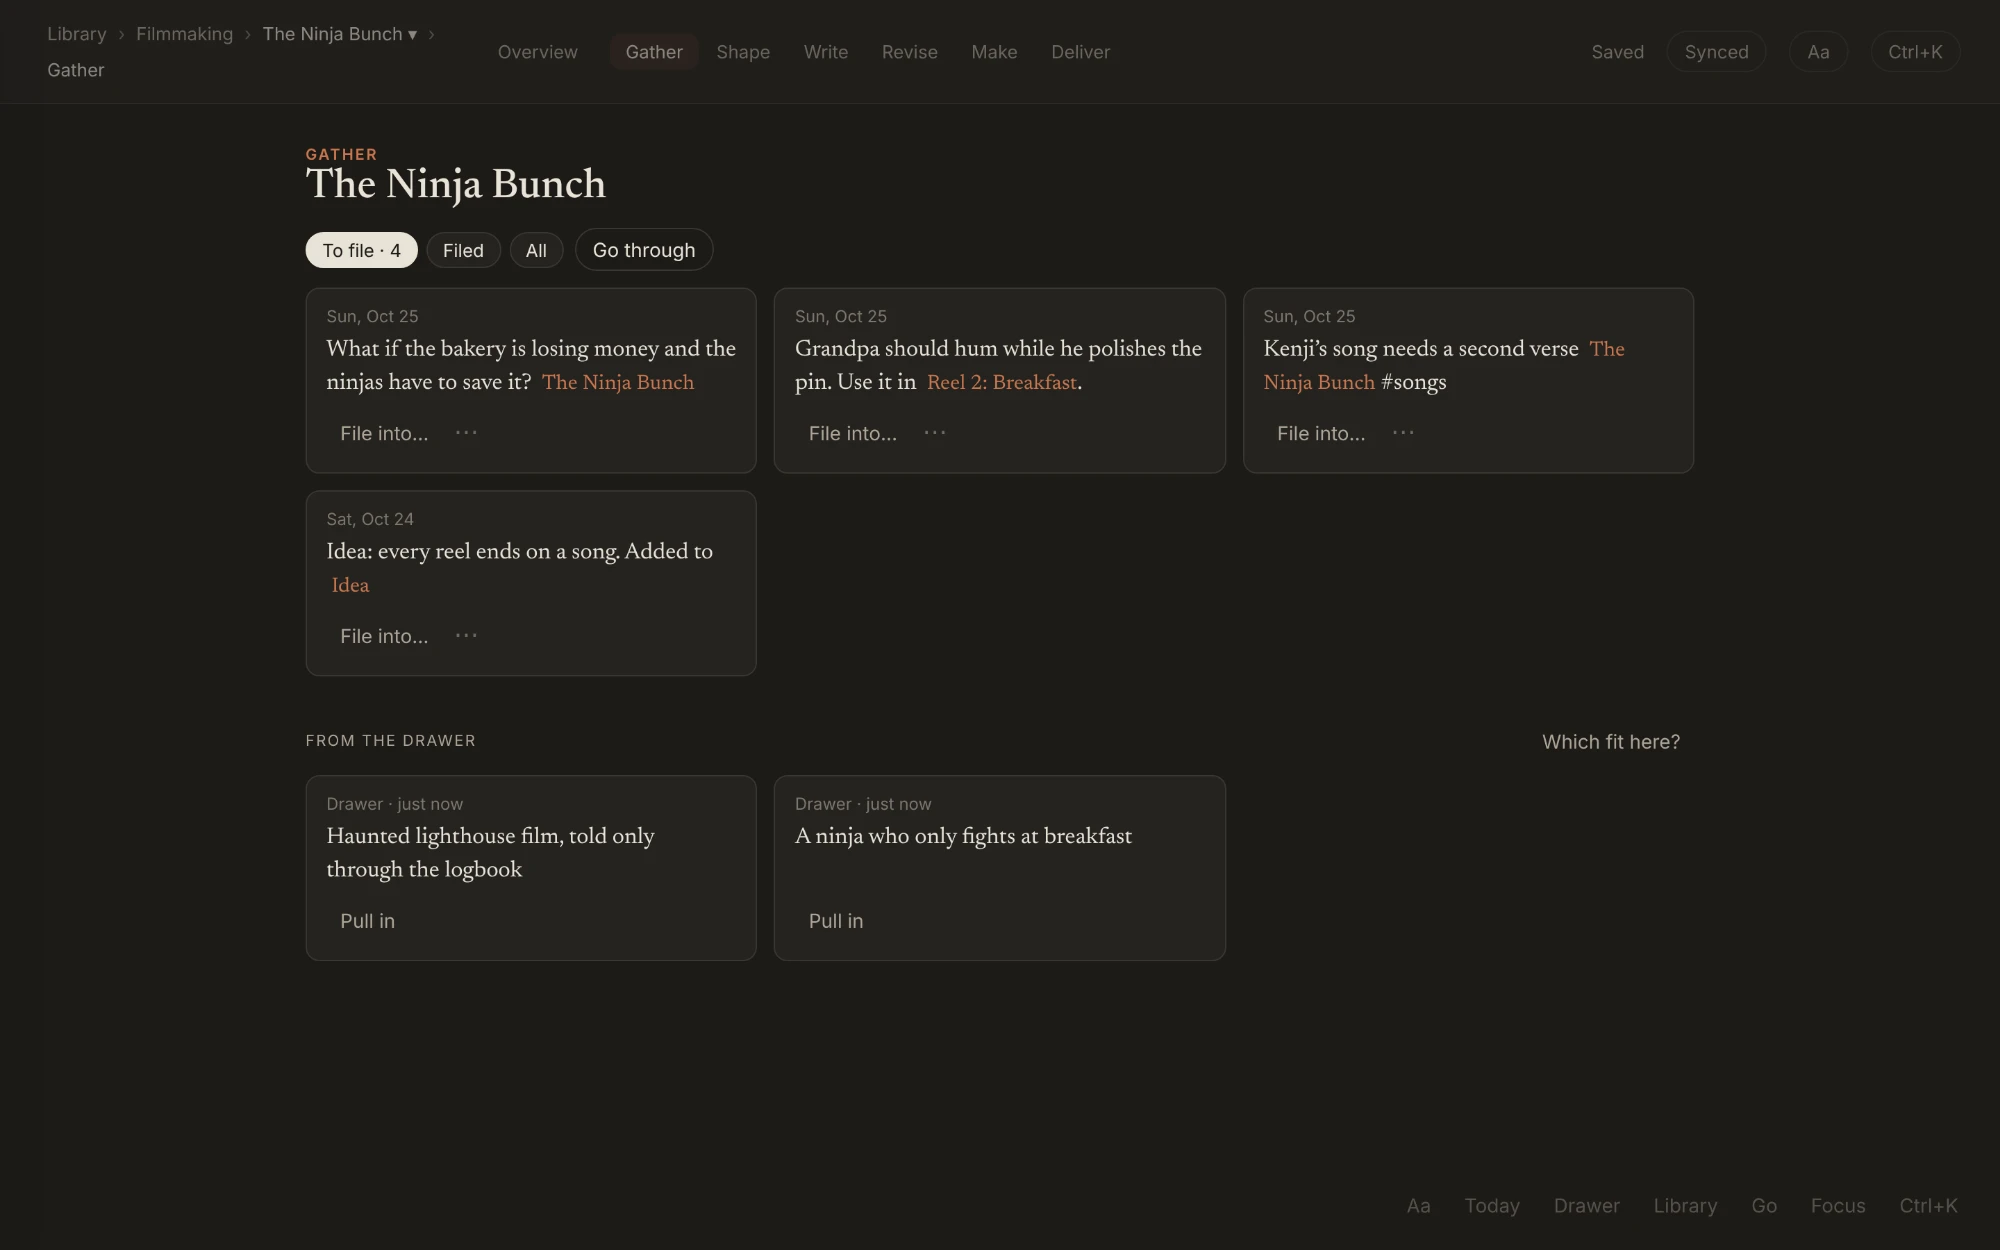
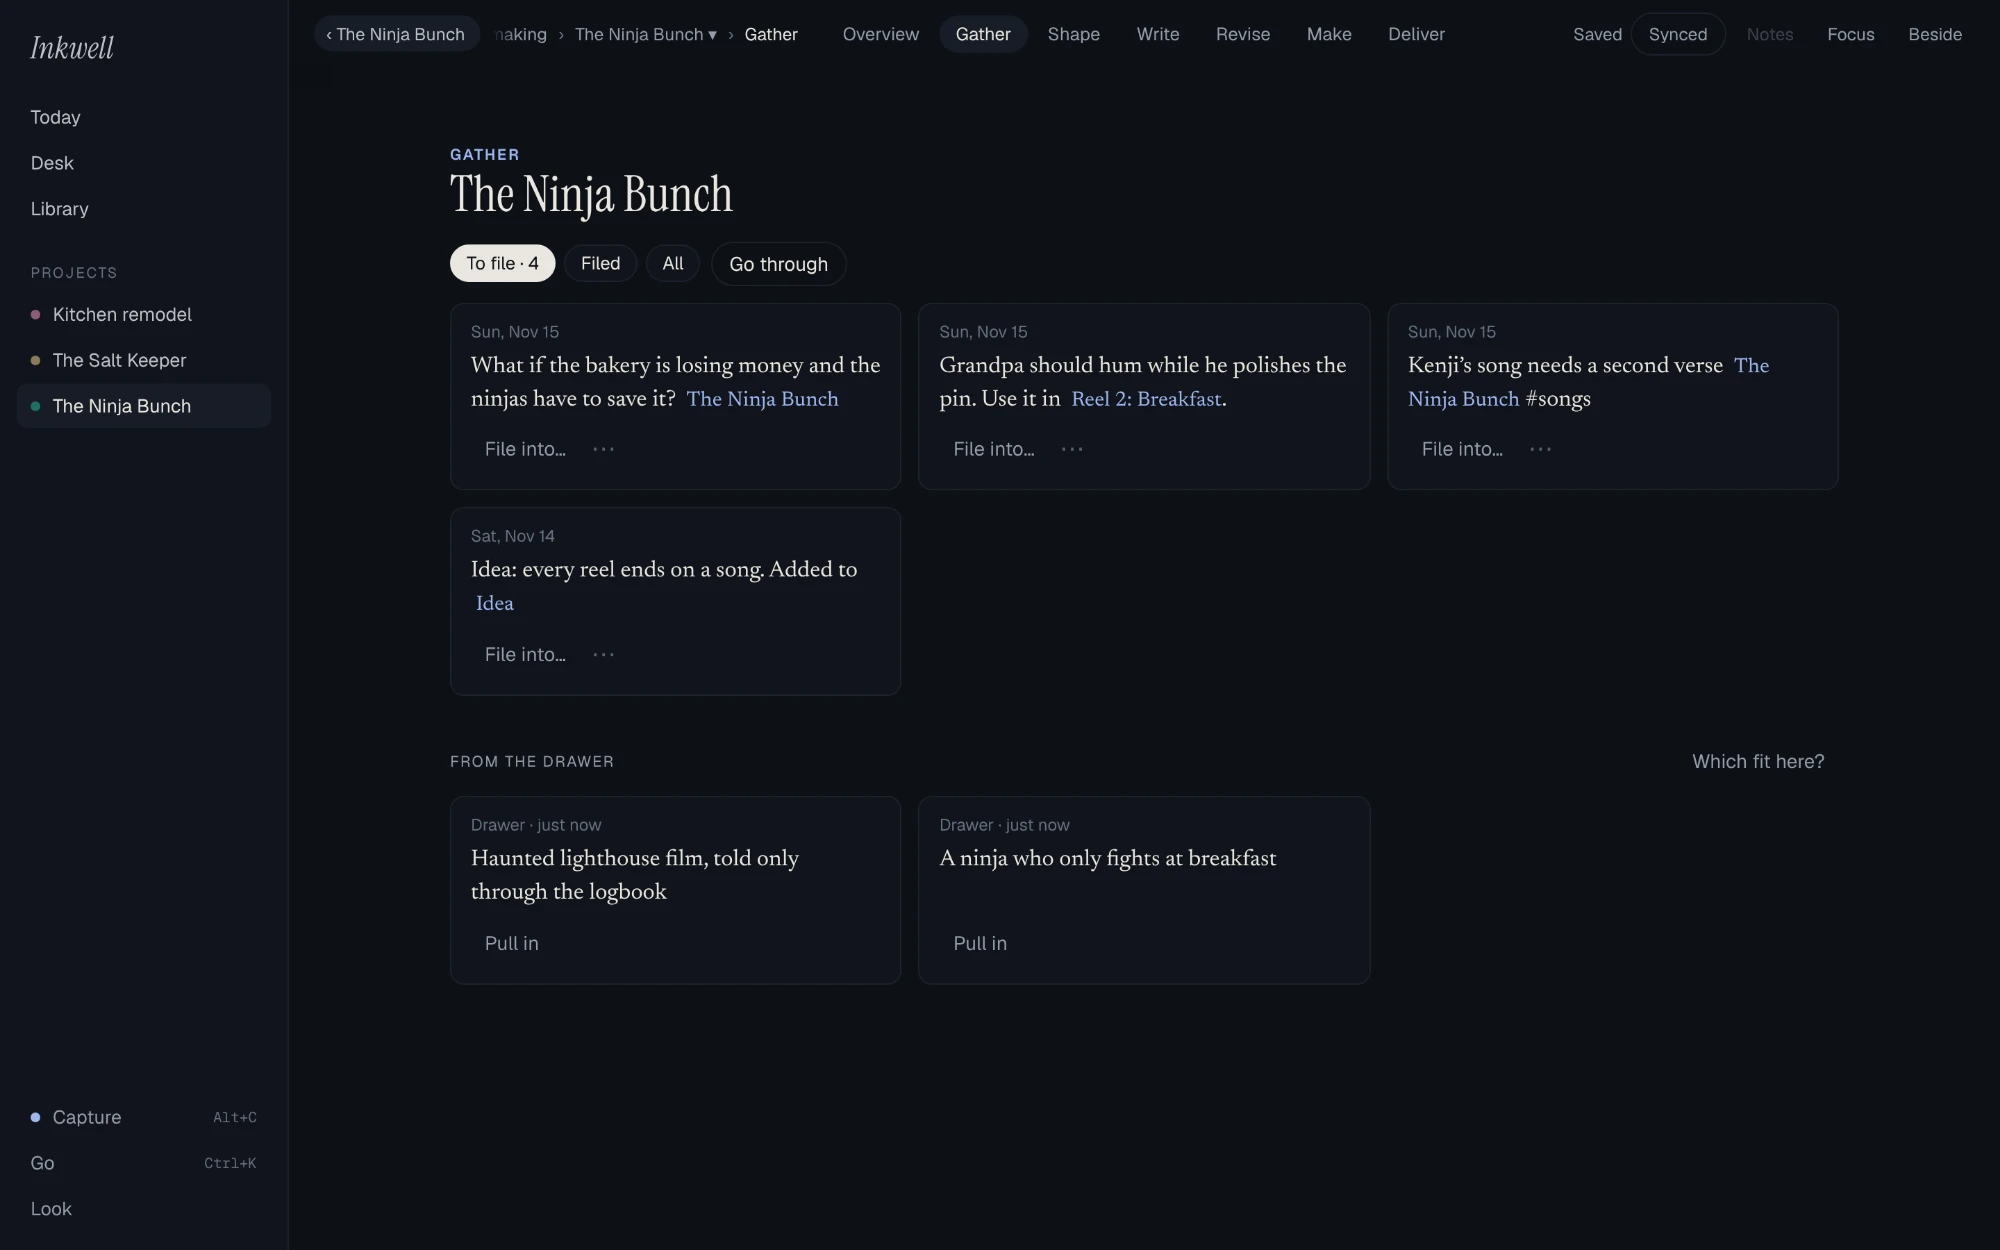
README: a fresh refresh for the redesign and One thing at a time (#157)
The README now opens the tour with the three rooms (Today, Desk, Library)
and the rail, then Now, Page, Plan and Calendar on Today, First light and
Training, and the Desk, each with a new screenshot. The status board and
workflows moved to Overview, Go took over Ctrl + K, the phone's bottom bar
is Today, Desk, mic, Library, Go, the looks and the connector's new powers
are described, and the shortcuts table gains Now's keys. Every screenshot
is retaken; the stage board and Stages… shots are gone. The capture script
adds the tasks it needs and takes the new shots.

Claude-Session: https://claude.ai/code/session_01JDekeKuNWJJnuNaLcb8G4Q

diff --git a/README.md b/README.md
@@ -40,20 +40,44 @@ Every screenshot here uses made-up sample data: **The Ninja Bunch**, an anime mo
 
 ## The whole tour
 
-### Start here: four things
+### Three rooms
 
-You only need four things to use Inkwell. Everything else is there when you reach for it.
+The rail on the left has three rooms. **Today** (`Ctrl + J`) is your day. **Desk** (`Ctrl + Shift + U`) shows every project, what needs you and who's working on it. **Library** (`Ctrl + Shift + O`) holds every world. Under them are your projects, and at the bottom are **Capture** (`Alt + C`), **Go** (`Ctrl + K`) and **Look** (looks, text size and a switch for every part). Anything you don't use can be switched off in Look.
 
 | | Computer | Phone |
 |---|---|---|
-| **Today**, your daily page | `Ctrl + J` | Today in the bottom bar |
-| **Talk**, one voice button | `Alt + C` (again to keep it) | the mic in the bottom bar, or long-press the Inkwell icon |
-| **Every command** | `Ctrl + K` | ⋯ in the bottom bar |
+| **Today**, **Desk**, **Library** | `Ctrl + J`, `Ctrl + Shift + U`, `Ctrl + Shift + O` | the bottom bar |
+| **Capture**, one voice button | `Alt + C` (again to keep it) | the mic in the bottom bar, or long-press the Inkwell icon |
+| **Go**: search, jump, every command, or type a task | `Ctrl + K` | Go in the bottom bar |
 | **A project's tabs** | `Alt + 0` to `Alt + 6` | the tabs along the top |
+
+### One thing at a time
+
+Today has four faces along the top: **Now**, **Page**, **Plan** and **Calendar** (`Alt + 1` to `Alt + 4`).
+
+**Now** shows the one thing you're on in large type, with nothing else on the screen. **Begin** (`B`) opens it, **Done** (`D`) finishes it, and **Not now** (`N`) moves it to later today, enough for today, or another day. Between things, a quiet gate says what's next. Small things go together as one entry, and a calendar event takes over five minutes before it starts. "Get it out of your head" at the bottom catches a thought without leaving what you're doing. In the morning, **Talk the day through** lays the day out from what you say. In the evening, **Close the day** shows what you did and asks what's first tomorrow. Nothing undone is ever counted, and there are no time estimates.
+
+![Now: one thing at a time](docs/screenshots/desktop-now.webp)
+
+**Plan** is today, tomorrow, this week, next week, this month, later and not planned, as one outline. Drag a line to reorder it, or drag it to another day. `Alt + W` on any line plans it.
+
+![The plan](docs/screenshots/desktop-plan.webp)
+
+**Calendar** shows the day, the week or six weeks, with your Google Calendar's events woven in. Drag a block to move it, or its handle to make it longer.
+
+![The week](docs/screenshots/desktop-calendar.webp)
+
+**First light** (if you want it) shows the day's Bible reading before anything else the first time Today opens: two Old Testament chapters, a Psalm, one from Proverbs or Ecclesiastes and two New Testament chapters, each track going round by itself. **Training** puts a session on its days and takes you through it in Now, one exercise at a time, with ladders that ask before moving you up.
+
+### The Desk
+
+Every project on one page: your next step in each, what Claude's threads did and what needs you, plus where your training stands. **Talk it through** (`Alt + T`) opens a conversation with Claude beside whatever you're looking at.
+
+![The Desk](docs/screenshots/desktop-desk.webp)
 
 ### Catch it
 
-**Today's page** (`Ctrl + J`) is one page a day for anything: plans, ideas, research, links to pieces and pages, and #tags. A voice capture lands with a play button, the time, and a small chip naming the mode Claude wrote it up in (here, Idea). "Note to self" became its own line, and the words you really said are always kept.
+**Today's page** (Page on Today, `Alt + 2`) is one page a day for anything, with the plan beside it: plans, ideas, research, links to pieces and pages, and #tags. A voice capture lands with a play button, the time, and a small chip naming the mode Claude wrote it up in (here, Idea). "Note to self" became its own line, and the words you really said are always kept.
 
 
 **One voice button.** `Alt + C` (or the mic on the phone) records and lands where you are: on today's page, into the draft at the cursor, or on the page you're looking at, with a link line on today either way. The record screen says where it will go, with "Today instead" if you change your mind. Said out loud, "scratch that", "start again", "new paragraph" and "next scene" are carried out.
@@ -74,9 +98,11 @@ Voice modes (Idea, Journal, Scene, Text message, Email, or your own) are yours t
 
 **The Library** (`Ctrl + Shift + O`) holds every world, sorted into areas you make yourself (Writing › Novels › Working). "New" asks what you're making: one piece, a book series, a show, a collection, or a life project like a kitchen remodel, and you can change it any time.
 
+When a project is done, "Finish project…" in its ⋯ menu (or "Finish this project" in Go) puts it on the Library's Finished shelf, off the Desk and the plan, with everything still in it. Reopening brings it all back.
+
 ![The Library](docs/screenshots/desktop-library.webp)
 
-**Overview** (`Alt + 0`) is a world's home: its logline, pieces by stage, and what to do next (things to file, promises not paid off, the next shoot day). The Ninja Bunch is a Show, so it talks in seasons and episodes, alongside its reels, gags and songs. Each piece has its own label and stage.
+**Overview** (`Alt + 0`) is a world's home: its logline, pieces by status, and what to do next (things to file, promises not paid off, the next shoot day). The Ninja Bunch is a Show, so it talks in seasons and episodes, alongside its reels, gags and songs. Each piece has its own label and stage.
 
 
 ### The seven tabs
@@ -119,13 +145,9 @@ Prose is just the page. Notes sit in the margin beside the paragraph they belong
 - **Claude's notes** gives margin notes and a fix list when you ask, and "Talk this chapter over with Claude" opens a conversation about it.
 - **Print** (`Ctrl + P`) gives clean pages to print or save as PDF.
 
-**Make** (`Alt + 5`) is production. The stage board shows every piece by stage; drag a card to move it on. Each kind of piece goes through its own **stage set**: AI video (Idea, Written, Boarded, Generated, Edited, Posted), Live action (… Prepped, Shot, Edited, Released), Book (… Outlined, Drafted, Revised, Edited, Published), Stage and Short writing. Here the reels are AI video, Reel 3 is shot live on the bakery roof, and the song is short writing. The last stage always means out in the world.
+**Statuses and workflows.** Each kind of piece goes through its own workflow: AI video (New idea, Writing, Boarding, Generating, Editing, Posted), Live action (… Prepping, Shooting, Editing, Released), Book (… Outlining, Drafting, Revising, Editing, Published), Stage and Short writing. The status board on Overview shows every piece by status, with one button to move a piece on. "Workflow" on Overview sets the steps and the Make tools for this project, and you can save your own. The last step always means out in the world.
 
-![Make: the stage board, one row per stage set](docs/screenshots/desktop-stage-board.webp)
-
-"Stages…" picks which set scripts, prose and outlines go through in this project, and renames, adds, removes or reorders a set's stages. It says first what will move, and has Undo. One piece can go through another set from its ⋯ menu.
-
-![Stages… for The Ninja Bunch](docs/screenshots/desktop-stage-sets.webp)
+**Make** (`Alt + 5`) is production: the Kit and Shoot days.
 
 Inside a piece, **Production** (`Ctrl + Shift + S`) turns the script into what's needed to generate or shoot it. Each scene shows the bible elements it uses (found in its words), its production notes and its shots. Shot codes like `NB-R02-S01-01` never change, so file names and Resolve clips keep pointing at the right shot. Each shot has still and video prompts and its renders; the star marks the one that worked, and earlier prompts are never lost. Each shot says how it's made (Generated, From reference, or Live action), and each scene with lines says whether its voices are recorded, generated or both. "Download kit" zips a shot's prompts and reference pictures for PixAI, Seedance or ComfyUI.
 
@@ -143,13 +165,13 @@ The **storyboard** shows every shot in order with its starred still. "Play" runs
 
 ### Getting around
 
-On a computer, a faint line at the top left says where you are and offers "‹ last place". `Ctrl + O` opens the **Go panel**: search anything, jump back to your last five places, go up the path, pick one of this project's tabs, or open Today, the Drawer, the Library or Tags. `Ctrl + O` then `Enter` flips back to where you just were.
+`Ctrl + K` opens **Go**: search anything, jump back to your last places, pick one of this project's tabs, open a room, run any command, or just type a task. `Ctrl + O` opens it on search.
 
-![The Go panel](docs/screenshots/desktop-go.webp)
+![Go](docs/screenshots/desktop-go.webp)
 
-`Ctrl + K` opens one menu for every command, grouped so it stays short.
+Commands are grouped so the list stays short.
 
-![The command menu](docs/screenshots/desktop-command-menu.webp)
+![Commands in Go](docs/screenshots/desktop-command-menu.webp)
 
 **Tags** lists every #tag with how often and how recently it's used. Claude can sort them into groups and point out ones that look like the same thing; "Go through a tag" takes you through everything tagged, one at a time.
 
@@ -157,10 +179,10 @@ On a computer, a faint line at the top left says where you are and offers "‹ l
 
 ### On an Android phone
 
-Inkwell installs to the home screen from Chrome and syncs with the computer. The bottom bar is always there (it hides while you type): **‹ Back**, named for where it goes; the place you're in, which opens the **Go sheet**; **Today**; the **mic**; and **⋯** for every command. The mic is also first on the rows above the keyboard, so you can talk without closing it.
+Inkwell installs to the home screen from Chrome and syncs with the computer. The bottom bar is always there (it hides while you type): **Today**, **Desk**, the **mic** in the middle, **Library** and **Go**, which opens the Go sheet for everything else. Now, Page, Plan and Calendar sit along the top of Today, sized for your thumb. The mic is also first on the rows above the keyboard, so you can talk without closing it.
 
 <p>
-  <img src="docs/screenshots/phone-today.webp" width="240" alt="Today's page on a phone, with the bottom bar">
+  <img src="docs/screenshots/phone-today.webp" width="240" alt="Today's plan on a phone, with the bottom bar">
   <img src="docs/screenshots/phone-go.webp" width="240" alt="The Go sheet on a phone">
   <img src="docs/screenshots/phone-record.webp" width="240" alt="Recording on a phone">
 </p>
@@ -173,9 +195,9 @@ Inkwell installs to the home screen from Chrome and syncs with the computer. The
   <img src="docs/screenshots/phone-grid.webp" width="240" alt="The plot grid on a phone">
 </p>
 
-### Light mode
+### Looks
 
-`Ctrl + Shift + L` switches between dark and light.
+Look (at the bottom of the rail) has the looks, from light paper to the warm night looks Ember, Candle and Night shift, plus text size and a switch for every part of the app. `Ctrl + Shift + L` switches between dark and light. The look is kept per device.
 
 ![A novel chapter in light mode](docs/screenshots/desktop-manuscript-light.webp)
 
@@ -185,7 +207,7 @@ Inkwell installs to the home screen from Chrome and syncs with the computer. The
 - **Structure**: fill a thread's grid cells from the draft, and point out promises not paid off.
 - **Production**: find the elements in every scene, suggest shots, write prompts from the scene, the elements' looks and the show's style rules, and draft captions.
 - **Revision**: notes and a fix list, talking a chapter over, and continuity checks against canon.
-- **The connector.** "Connect Claude to Inkwell" in `Ctrl + K` makes a private address to add in Claude (Settings, then Connectors, then Add custom connector). Claude can then read and search your worlds, pages and daily pages from any chat and add to them, always marked as Claude's. It never changes or deletes anything you wrote.
+- **The connector.** "Connect Claude to Inkwell" in `Ctrl + K` makes a private address to add in Claude (Settings, then Connectors, then Add custom connector). Claude can then read and search your worlds, pages and daily pages from any chat and add to them, always marked as Claude's. When you ask, it can also tick, move, plan, rename or delete a task or line, put your day in order, make an area, finish a project, move it to another area or put it in the Trash, and set where your reading and training are. Each change is shown to you with an Undo. Bigger tidy-ups wait as suggestions on your tidy pass until you say yes.
 
 Every line, paragraph and page records who wrote it, you or Claude.
 
@@ -193,7 +215,8 @@ Every line, paragraph and page records who wrote it, you or Claude.
 
 Being built right now, and not in the screenshots yet:
 
-- **Meeting notes** from a recording: speakers, a summary, decisions and tasks.
+- **Training charts and streaks** on the Desk.
+- **The Bible text in the app.** Until the ESV key arrives, First light's chapter names open on esv.org.
 
 ## Shortcuts
 
@@ -201,11 +224,16 @@ All of them are also in `Ctrl + /`.
 
 | Keys | What it does |
 |---|---|
-| `Ctrl + J` | Today's page (again goes back) |
+| `Ctrl + J` | Today (again goes back) |
+| `Alt + 1` to `Alt + 4` | On Today: Now, Page, Plan, Calendar |
+| `B` / `D` / `N` | In Now: Begin, Done, Not now |
+| `Alt + W` | When: plan this line |
+| `Alt + T` | Talk it through with Claude |
+| `Ctrl + Shift + U` | Desk |
 | `Ctrl + Shift + J` | The Today panel beside what you're doing |
 | `Alt + C` | Record; again to keep it (lands where you are) |
-| `Ctrl + K` | Every command |
-| `Ctrl + O` | Go panel (`Enter` flips back) |
+| `Ctrl + K` | Go: search, jump, every command, or type a task |
+| `Ctrl + O` | Go, on search |
 | `Ctrl + Shift + O` | Library |
 | `Alt + 0` to `Alt + 6` | Overview, Gather, Shape, Write, Revise, Make, Deliver |
 | `Ctrl + .` | Focus |
@@ -233,7 +261,7 @@ All of them are also in `Ctrl + /`.
 - **Everything is an entry.** Worlds, pieces, acts, chapters, every paragraph, pages, lines, notes, threads, shots and shoot days are rows of one shape (`src/model.js`) with a stable id, tags and room for links and typed fields, so anything can link to anything. A world is `kind: 'world'` (its shape in `fields.shape`); a piece is `kind: 'project'` under a world or another piece, with `fields.type` (prose, script or outline), `fields.label` and `fields.stage`. `fields.by` and `fields.edited_by` record who wrote it.
 - **Local first.** Each change is written at once to a write-ahead copy, then only the changed paragraphs go to the browser's database (IndexedDB), so a dying tab never loses text. It installs to the home screen and works offline (`public/sw.js`).
 - **Sync** between devices runs on Supabase. The server half (the database migrations and every server function, including the `inkwell` connector, alerts, the calendar and the Acro HQ sync) lives in `supabase/` in this repository; `.github/workflows/server.yml` checks it on each pull request and publishes it from main. Pictures and recordings go to a private storage bucket. A nightly backup goes to a private repo.
-- Main parts: the daily page and pages (`src/notebook.js`, `src/outline.js`), capture and voice (`src/capture.js`, `src/voice.js`), the workflow tabs and Drawer (`src/pages.js`, `src/stages.js`), plot grid (`src/grid.js`), production (`src/production.js`, `src/prodview.js`), revision (`src/drafts.js`, `src/compare.js`, `src/review.js`), sharing (`src/sharelink.js`, `read.html`), getting around (`src/nav.js`).
+- Main parts: the rooms and rail (`src/frame.js`, `src/app/rail.js`), Now, the plan and the calendar (`src/now.js`, `src/plan.js`, `src/plancal.js`, `src/tasks.js`), the Desk (`src/desk.js`), First light and Training (`src/firstlight.js`, `src/training.js`), the daily page and pages (`src/notebook.js`, `src/outline.js`), capture and voice (`src/capture.js`, `src/voice.js`), the workflow tabs and Drawer (`src/pages.js`, `src/stages.js`), plot grid (`src/grid.js`), production (`src/production.js`, `src/prodview.js`), revision (`src/drafts.js`, `src/compare.js`, `src/review.js`), sharing (`src/sharelink.js`, `read.html`), getting around (`src/nav.js`).
 
 ## Run it
 
